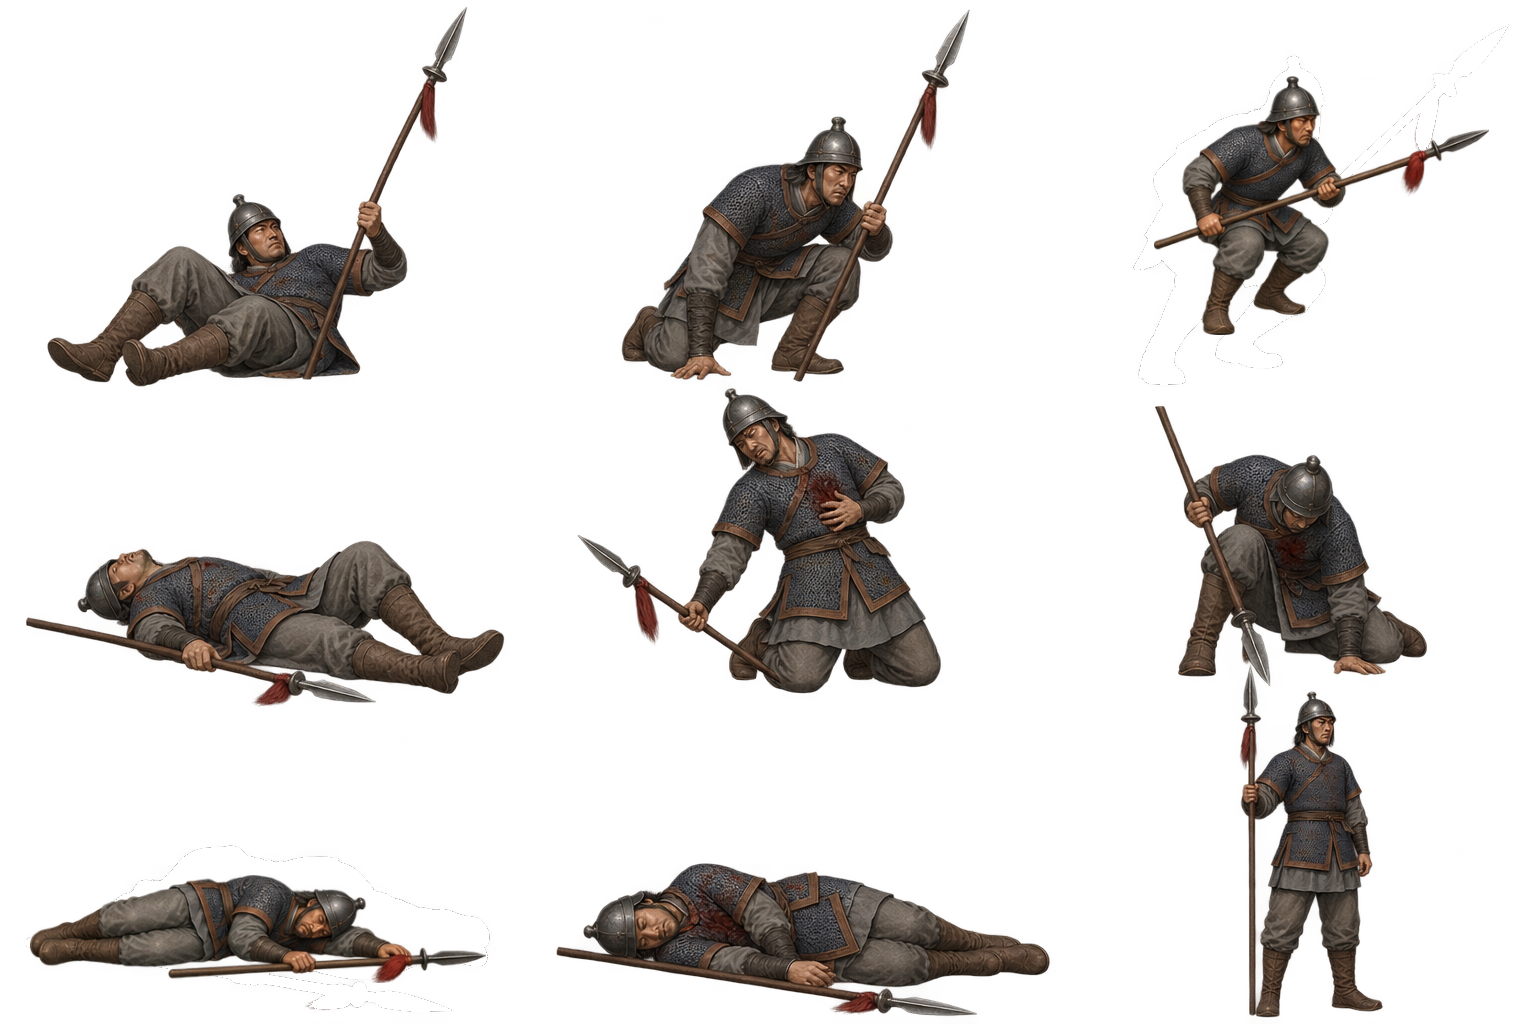
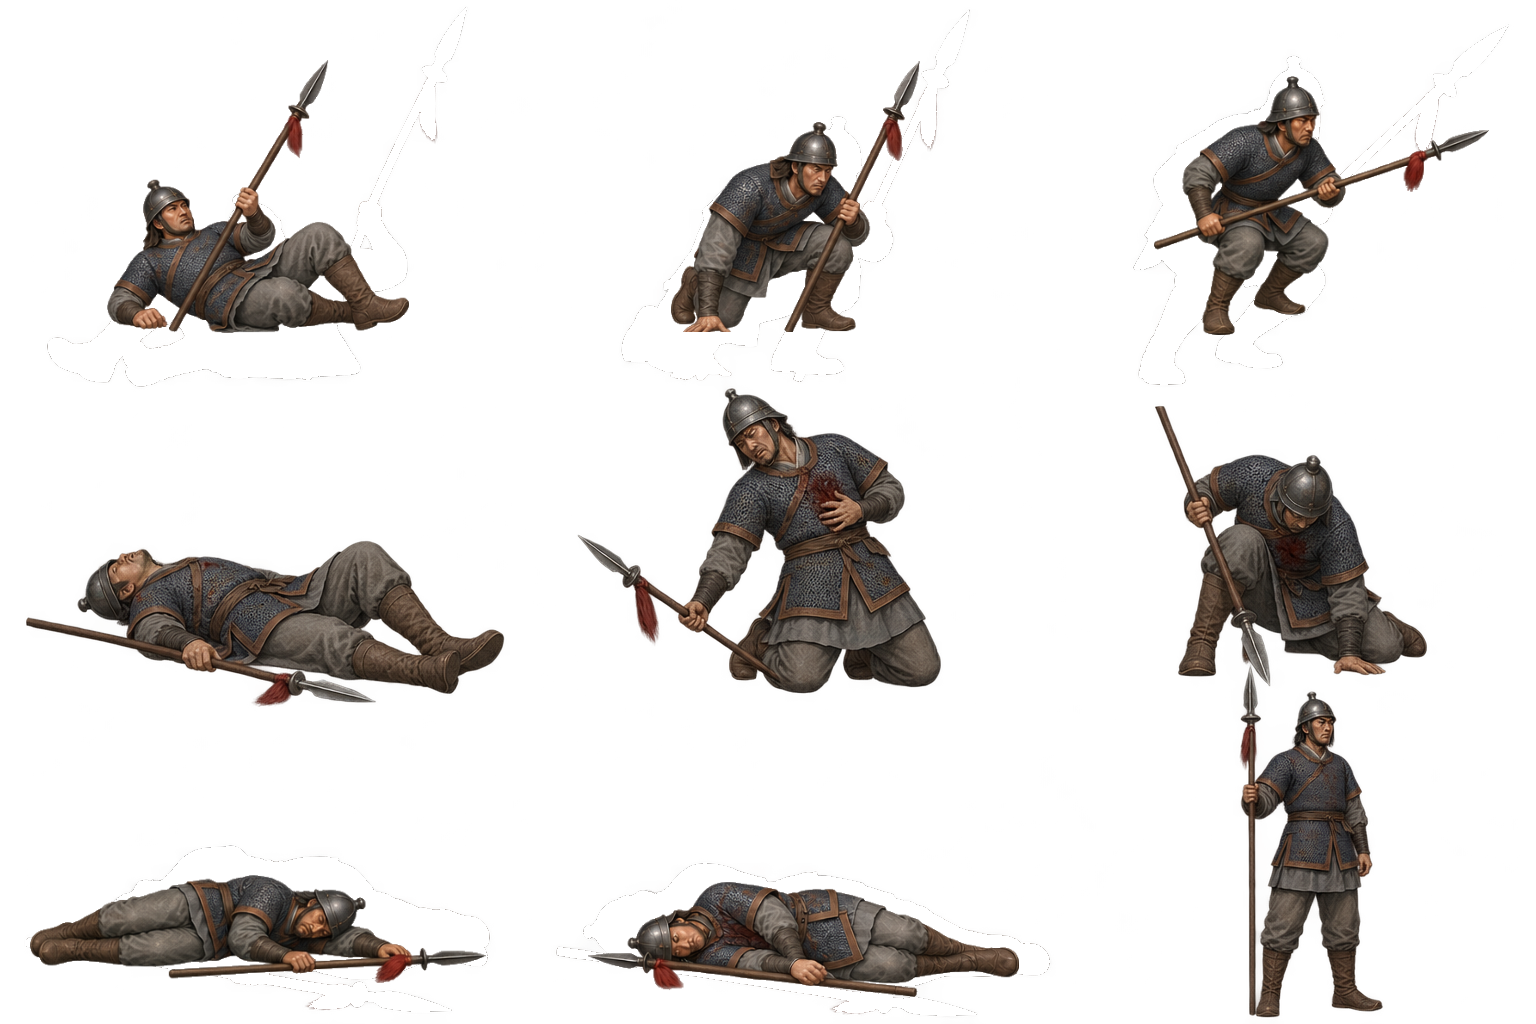
Loop tick: IN_PROGRESS CMR-07A - round-2 splice (5 cells) + verify: all members in-band but spread 18.2% FAIL; round-3 re-centering designed

diff --git a/PROGRESS.md b/PROGRESS.md
@@ -22,6 +22,47 @@ history slowly crowds out the work it is supposed to support.
 
 ## Entries
 #
+### 2026-10-02 05:52 UTC - CMR-07A (attempt 1, IN_PROGRESS - round-2 splice + verify: spread 18.2% FAIL, round 3 designed)
+
+- Status before: CMR-07A IN_PROGRESS (round 2 settled b4fd590; splice pending).
+- Work completed: spliced 5 round-2 cells (r2:2/r2:3/r2:4/r2:5/r2:6 with
+  uniform k=0.860; mask-exact proof clean), re-prepared deterministically,
+  FULL re-measure: spear observable set (27 members, principled
+  pose-based exclusions only) spans 298.4-359.8 = **18.2% spread => FAIL**
+  (min getup:1, max hitstun:7). Every member is within +/-10% of the 330
+  reference - the set is centered but WIDE (generator +/-7% natural
+  variation across 27 diverse members exceeds the 10% spread budget).
+  Honesty checks performed and rejected: metric-shopping (max-deviation
+  9.6% would pass, but soldier precedent uses range/mean - binding);
+  cherry-picked subsets (any honest narrowing still fails: strict
+  axis-aligned subset spans 13-14%); unilateral re-scope (owner-only).
+  Heads PASS (7.9%). Kept-cell proof holds (37/38 + 2px jitter).
+- NOT BLOCKED: repair ledger round 3 REMAINS (1 left) with a concrete
+  evidence-based plan: re-centering round targeting BOTH tails
+  (lows: getup:1/getup:0/getup:6 + highs: thrust:5/:7, hitstun:7,
+  fall:6 - 7 cells + witness + spare = 9) with bracketing refs aimed at
+  the 322-355 center window. Forecast honestly LOW (~5%: 7 cells must
+  all land in a 33px window at ~60% each) but positive-expected-progress
+  (each centered fix tightens spread); partial success still narrows for
+  a final verdict. Iterations remain productive (each achieved its
+  objective), so rule-5 backstop not triggered.
+- Files changed: (splice+reprepare outputs) art/motion/spearman/{4 source
+  sheets spliced + previous/ originals, registration.json,
+  measurements-raw.json, spear-lines.json}, PROVENANCE.md, TASKS.md,
+  PROGRESS.md.
+- Verification run: lint + `tsc --noEmit` clean; deterministic double-run;
+  splice proof (0 out-of-rect diff pixels on all sheets = kept cells
+  pixel-identical, stronger than fit comparison); overlay re-read
+  fingerprint-verified; no library code changed.
+- Result: acceptance NOT established (attempt 3 of authoring-budget
+  rounds complete; repair-ledger round 3 is the last funded attempt).
+- Status after: CMR-07A IN_PROGRESS (attempt 1).
+- Remaining work or blocker: repair-ledger ROUND 3 (reserve -> generate
+  centering round -> adjudicate -> splice-if-verified -> re-prepare ->
+  FINAL verdict: pass => continuity+checklist+DONE; fail => BLOCKED with
+  exact record, owner options: band amendment / re-scope / accept-as-is).
+- Next recommended task: continue CMR-07A (repair-ledger round 3).
+
 ### 2026-10-02 05:14 UTC - CMR-07A (attempt 1, IN_PROGRESS - repair-ledger round 2 fired + adjudicated: all 4 residuals addressed)
 
 - Status before: CMR-07A IN_PROGRESS (round 1 settled 80e80be; 4 residuals blocking).

diff --git a/TASKS.md b/TASKS.md
@@ -113,16 +113,16 @@ Selection: due producer review first, then the earliest ready CMR task; continue
 
 ### CMR-07A - Wei Spearman: author/prepare full motion pack
 
-- Status: IN_PROGRESS (attempt 1; repair-ledger ROUND 2 done
-  (reserved per protocol, 1 round left): bracketing refs (too-long +
-  too-short + scale-ref = 5) defeated both directional biases. Result:
-  ALL 4 residuals addressed - r2:2->fall:7 (331), r2:3->getup:0 (310),
-  r2:4->getup:1 (298, 1px margin risk), r2:5->getup:7 (325), all
-  endpoint-verified; r2:6->fall:6 (359) replaces borderline 362;
-  r2:7/r2:8 worse than current (skipped). Settled accepted with explicit
-  evidence. Next: splice 5 (uniform k=0.860) + re-prepare + FULL
-  re-measure + verdict (pass => continuity+checklist+DONE; fail =>
-  round 3 or BLOCKED).)
+- Status: IN_PROGRESS (attempt 1; round-2 cells SPLICED (5: fall:7,
+  getup:0/:1/:7, fall:6-swap; mask-exact proof clean) + re-prepared
+  deterministic + FULL re-measured. VERDICT: heads PASS (7.9%); spears
+  FAIL (27 members 298-360 = 18.2%; every member in-band +/-10% but
+  min+max sit at opposite edges). NOT BLOCKED: repair round 3 (1 left)
+  targets the tails (lows getup:1/:0/:6 + highs fall:6/hitstun:7/thrust:5
+  re-centered to a 322-355 window; 7 cells + witness + spare = 9).
+  Forecast ~5% full-pass (7 cells must all land in a 33px window);
+  partial still tightens. Each iteration achieved its objective, so the
+  rule-5 backstop not triggered. Next: round 3 fire+adjudicate.)
 - Dependency: CMR-06B DONE (earlier foundation dependencies apply transitively)
 - Specification: [CMR-07A](docs/motion-tasks/CMR-07A.md); read with [shared contract](docs/CAST_MOTION_ROLLOUT.md).
 - Acceptance: Complete applicable spearman identity/actions/registration/provenance/landmark budgets; offline review; no partial runtime activation.

diff --git a/art/motion/spearman/PROVENANCE.md b/art/motion/spearman/PROVENANCE.md
@@ -188,11 +188,24 @@ versions; spread 30.2%, ~14% best-case). NOT BLOCKED: the
 `MOTION_ACCEPTANCE4_RECOVERY` protocol provides a separate 3-round
 reserve (spearman 3/3 untouched); next is repair-ledger round 1.
 
+## Round-2 splice + verdict (2026-10-02)
+
+Spliced 5 verified round-2 cells (uniform k=0.860; r1:6 splice queued
+earlier superseded by r2:6): fall:7 (331), getup:0 (310), getup:1 (298,
+1px margin risk), getup:7 (325), fall:6 (359, replaces borderline 362).
+Mask-exact proof clean (0 out-of-rect diffs); re-prepared
+deterministically with hitstun 0.925. VERDICT: all 27 members in-band
++/-10% BUT spread 18.2% (min getup:1 298.4, max hitstun:7 359.5) - the
+set spans nearly the full band (generator +/-7% natural variation).
+Heads still PASS. NOT BLOCKED (round 3 remains): round-3 design =
+re-centering round (lows getup:1/:0/:6 + highs fall:6/hitstun:7/thrust:5
+redrawn into a 322-355 window + witness + spare = 9); forecast ~5%
+full-pass (7 cells must all land in a 33px window).
+
 ## Remaining budget plan (authoring 0 left - exhausted; repair reserve 1/3)
 
-Authoring-budget repairs spent (7 splices) + repair-ledger round 1 (0/4,
-r1:6 splice queued) + round 2 (all 4 residuals addressed, splice
-pending). One repair round remains as backstop. If the round-2 splice
-verification fails to establish acceptance 4, round 3 (refined targeting)
-or BLOCKED with exact record; band amendment or re-scope remain owner
-calls.
+Authoring repairs (7 splices) + round 1 (0/4, r1:6 queued-then-superseded)
++ round 2 (5 splices: all residuals addressed individually, but global
+spread 18.2% FAIL). One repair round remains: re-centering round per
+above. If it fails, BLOCKED with exact record; band amendment, re-scope,
+or accept-as-is remain owner calls.
